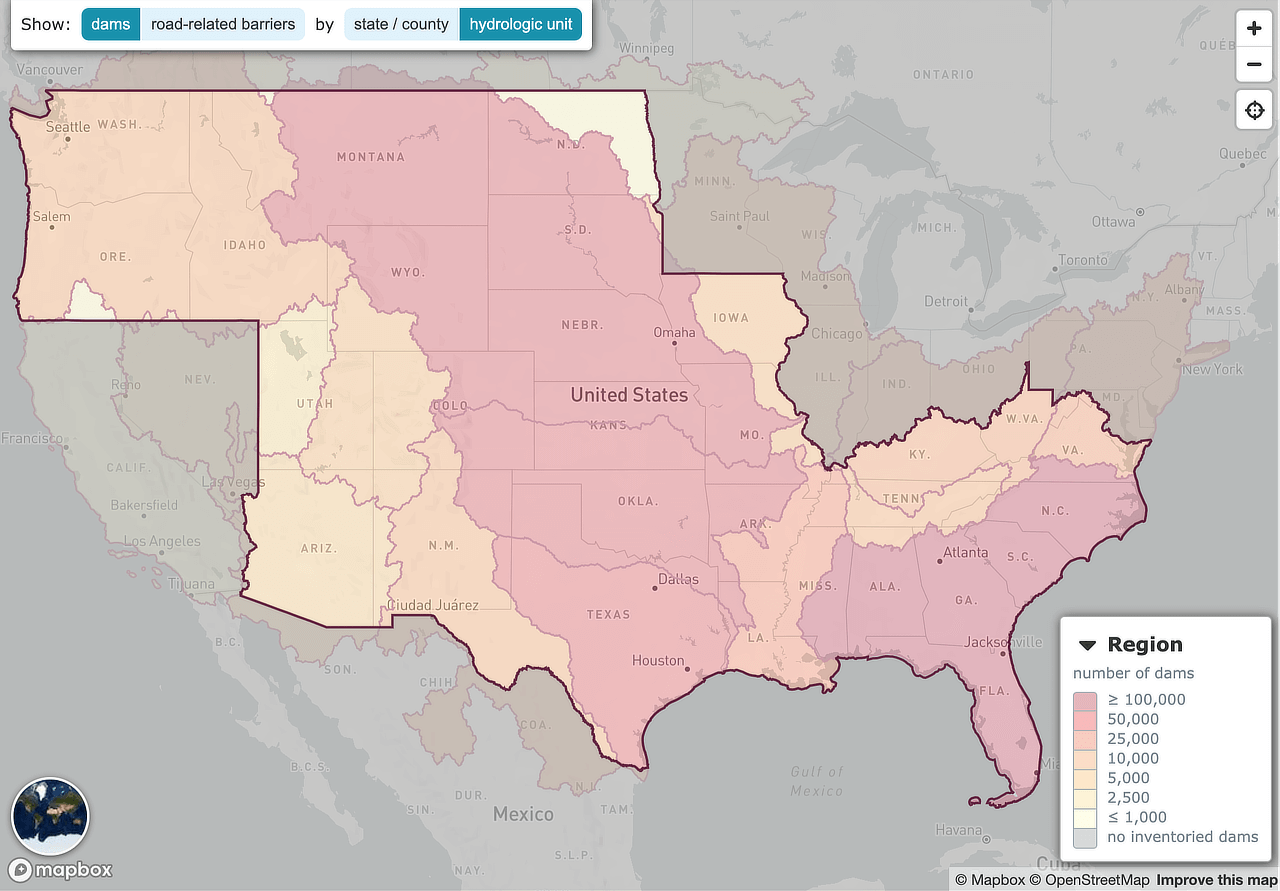
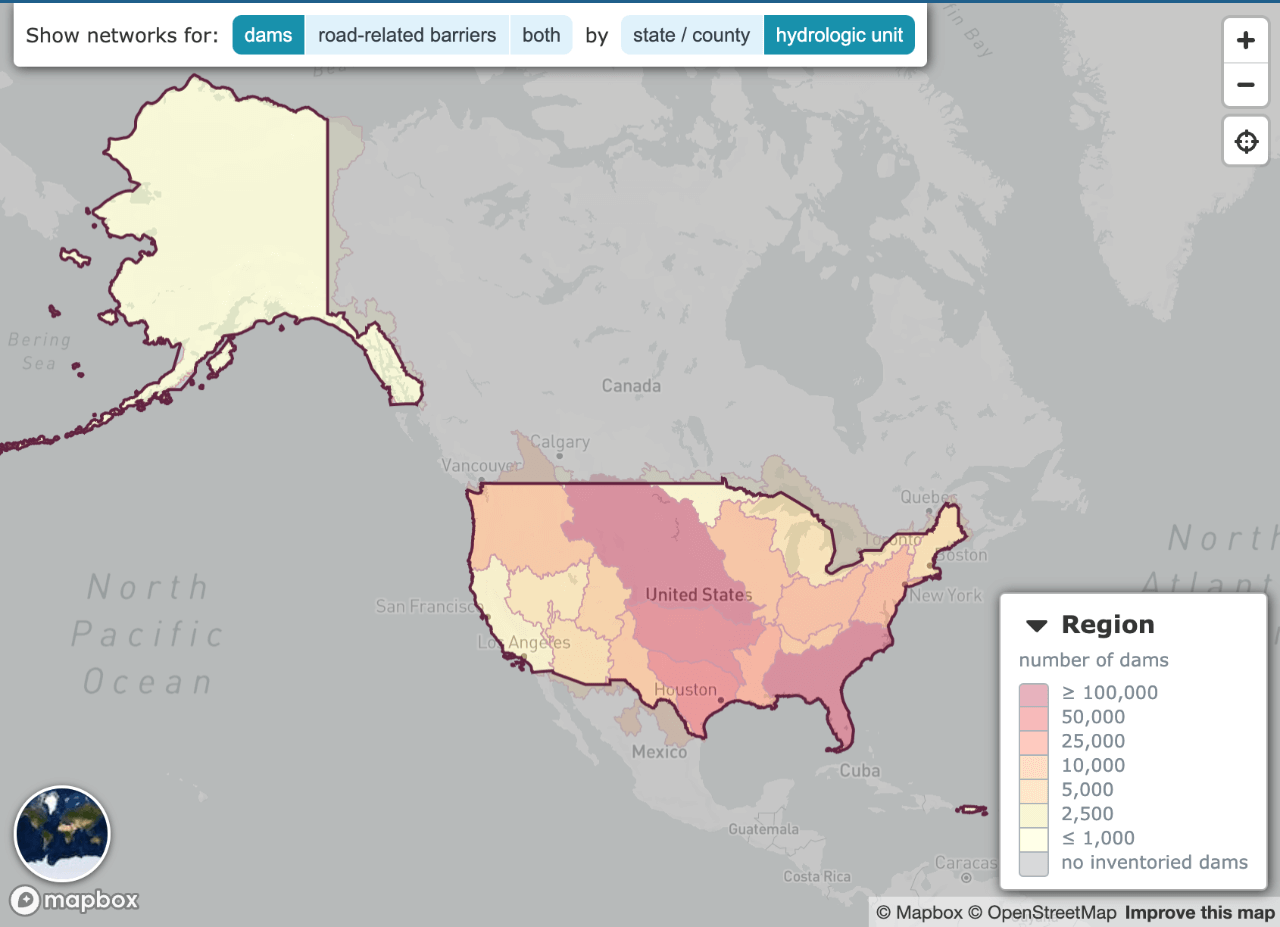
Rename to national

diff --git a/ui/src/components/Layout/Header.jsx b/ui/src/components/Layout/Header.jsx
@@ -24,13 +24,9 @@ const Header = () => {
         borderBottomColor: 'blue.8',
       }}
     >
-      <Heading
-        as="h1"
+      <Box
         sx={{
           flex: '0 0 auto',
-          m: 0,
-          lineHeight: 1,
-          fontSize: '1.5rem',
           'a, a:hover': {
             textDecoration: 'none',
             color: '#fff',
@@ -50,18 +46,37 @@ const Header = () => {
                 sx={{
                   fill: '#fff',
                   mr: '0.25rem',
-                  width: '2rem',
-                  height: '2rem',
+                  width: '2.25rem',
+                  height: '2.25rem',
                 }}
               />
             </Box>
-            <Text sx={{ display: ['none', 'none', 'unset'] }}>{title}</Text>
-            <Text sx={{ display: ['unset', 'unset', 'none'] }}>
+            <Box sx={{ display: ['none', 'none', 'unset'], lineHeight: 1 }}>
+              <Text sx={{ fontSize: 1, fontStyle: 'italic' }}>National</Text>
+              <Heading
+                as="h1"
+                sx={{
+                  m: 0,
+                  fontSize: '1.25rem',
+                  fontWeight: 'normal',
+                }}
+              >
+                Aquatic Barrier Inventory & Prioritization Tool
+              </Heading>
+            </Box>
+            <Heading
+              as="h1"
+              sx={{
+                display: ['unset', 'unset', 'none'],
+                lineHeight: 1,
+                fontSize: '1.5rem',
+              }}
+            >
               {shortTitle}
-            </Text>
+            </Heading>
           </Flex>
         </Link>
-      </Heading>
+      </Box>
       <Nav />
     </Flex>
   )

diff --git a/ui/gatsby-config.js b/ui/gatsby-config.js
@@ -13,7 +13,7 @@ module.exports = {
     version,
     date,
     siteUrl: process.env.GATSBY_SITE_URL || defaultHost,
-    title: `Aquatic Barrier Prioritization Tool`,
+    title: `National Aquatic Barrier Inventory & Prioritization Tool`,
     shortTitle: `Aquatic Barrier Tool`,
     description: `A tool to help prioritize aquatic barriers for removal or mitigation.`,
     author: `Brendan C. Ward`,
@@ -90,7 +90,7 @@ module.exports = {
     {
       resolve: `gatsby-plugin-manifest`,
       options: {
-        name: `Aquatic Barrier Prioritization Tool`,
+        name: `National Aquatic Barrier Inventory & Prioritization Tool`,
         short_name: `Aquatic Barrier Tool`,
         icon: 'src/images/favicon-64x64.svg',
         start_url: `/`,

diff --git a/ui/src/components/Download/StateDownloadTable.jsx b/ui/src/components/Download/StateDownloadTable.jsx
@@ -3,7 +3,7 @@ import PropTypes from 'prop-types'
 import { Box, Grid, Paragraph } from 'theme-ui'
 
 import { useStateSummary } from 'components/Data'
-import { REGIONS, STATES } from 'config'
+import { REGIONS, STATES, ANALYSIS_STATES } from 'config'
 import { groupBy } from 'util/data'
 import { formatNumber } from 'util/format'
 
@@ -22,7 +22,12 @@ const StateDownloadTable = ({
   ...props
 }) => {
   const stateData = groupBy(useStateSummary(), 'id')
-  const { states } = REGIONS[region]
+  let states = []
+  if (region === 'total') {
+    states = ANALYSIS_STATES
+  } else {
+    states = REGIONS[region].states
+  }
 
   const unrankedDams = dams - rankedDams
   const unrankedBarriers = smallBarriers - rankedSmallBarriers

diff --git a/ui/src/components/Summary/RegionSummary.jsx b/ui/src/components/Summary/RegionSummary.jsx
@@ -10,6 +10,7 @@ import { REGIONS } from 'config'
 import { formatNumber } from 'util/format'
 
 const RegionSummary = ({ region, barrierType, system, onSearch }) => {
+  const { name } = REGIONS[region]
   const {
     [region]: {
       dams,
@@ -25,7 +26,7 @@ const RegionSummary = ({ region, barrierType, system, onSearch }) => {
   const unrankedDams = dams - rankedDams
   const unrankedBarriers = smallBarriers - rankedSmallBarriers
 
-  const regionName = region === 'total' ? 'full analysis area' : REGIONS[region]
+  const regionName = region === 'total' ? 'full analysis area' : name
 
   return (
     <Box sx={{ p: '1rem', overflowY: 'auto', height: '100%' }}>

diff --git a/ui/src/components/Report/Report.jsx b/ui/src/components/Report/Report.jsx
@@ -46,8 +46,8 @@ const Report = ({
 
   return (
     <Document
-      author="generated by the Southeast Aquatic Barrier Prioritization Tool"
-      creator="Southeast Aquatic Barrier Prioritization Tool"
+      author="generated by the National Aquatic Barrier Inventory & Prioritization Tool"
+      creator="National Aquatic Barrier Inventory & Prioritization Tool"
       title={`Barrier Report for ${name}, ${county} County, ${state}`}
       keywords="aquatic barriers, hydrology, dams"
       language="en-us"

diff --git a/ui/src/components/Report/Credits.jsx b/ui/src/components/Report/Credits.jsx
@@ -9,7 +9,7 @@ const Credits = (props) => (
     <Text style={{ flex: '1 1 auto', marginRight: 36, fontSize: 10 }}>
       This report was created using the{' '}
       <Link href="https://connectivity.sarpdata.com/">
-        <Text>Aquatic Barrier Prioritization Tool</Text>
+        <Text>National Aquatic Barrier Inventory & Prioritization Tool</Text>
       </Link>
       , a project of the{' '}
       <Link href="https://southeastaquatics.net/sarps-programs/aquatic-connectivity-program-act">

diff --git a/ui/src/pages/index.jsx b/ui/src/pages/index.jsx
@@ -19,8 +19,8 @@ const IndexPage = ({ data: { headerImage } }) => (
     <HeaderImage
       image={headerImage.childImageSharp.gatsbyImageData}
       height="28vh"
-      minHeight="18rem"
-      title="Aquatic Barrier Prioritization Tool"
+      minHeight="22rem"
+      title="National Aquatic Barrier Inventory & Prioritization Tool"
       subtitle="Improve aquatic connectivity by prioritizing aquatic barriers for removal using the best
       available data."
     />

diff --git a/ui/src/components/ReportPreview/Credits.jsx b/ui/src/components/ReportPreview/Credits.jsx
@@ -10,7 +10,7 @@ const Credits = ({ sx }) => (
       <Box sx={{ flex: '1 1 auto' }}>
         This report was created using the{' '}
         <a href="https://connectivity.sarpdata.com/">
-          Aquatic Barrier Prioritization Tool
+          National Aquatic Barrier Inventory & Prioritization Tool
         </a>
         , a project of the{' '}
         <a href="https://southeastaquatics.net/sarps-programs/aquatic-connectivity-program-act">

diff --git a/ui/src/content/home/Inventory.jsx b/ui/src/content/home/Inventory.jsx
@@ -68,8 +68,8 @@ const Inventory = () => {
               }}
             >
               <li>
-                <b>{ANALYSIS_STATES.length - 2}</b> states, Puerto Rico, and
-                U.S. Virgin Islands
+                <b>{ANALYSIS_STATES.length - 3}</b> states, Washington DC,
+                Puerto Rico, and U.S. Virgin Islands
               </li>
               <li>
                 <b>{formatNumber(dams, 0)}</b> inventoried dams

diff --git a/ui/src/components/Report/Footer.jsx b/ui/src/components/Report/Footer.jsx
@@ -27,7 +27,7 @@ const Footer = () => (
     >
       Created by the{' '}
       <Link href="https://connectivity.sarpdata.com/">
-        <Text>Aquatic Barrier Prioritization Tool</Text>
+        <Text>National Aquatic Barrier Inventory & Prioritization Tool</Text>
       </Link>{' '}
       on {new Date().toLocaleDateString()}.
     </Text>

diff --git a/ui/src/pages/regions/northeast/index.jsx b/ui/src/pages/regions/northeast/index.jsx
@@ -87,7 +87,7 @@ const NortheastRegionPage = ({
           </Box>
           <Box>
             <Heading as="h4" sx={{ mb: '1rem' }}>
-              Includes {states.length} states with:
+              Includes {states.length - 1} states and Washington DC with:
             </Heading>
 
             <RegionStats {...summary} />

diff --git a/ui/src/components/Layout/NavMenu.jsx b/ui/src/components/Layout/NavMenu.jsx
@@ -35,7 +35,6 @@ const NavMenu = ({ label, items, ...props }) => (
         borderRight: '1px solid transparent',
         position: 'relative',
         transformStyle: 'preserve-3d',
-        mr: '0.5rem',
       }}
     >
       <Text
